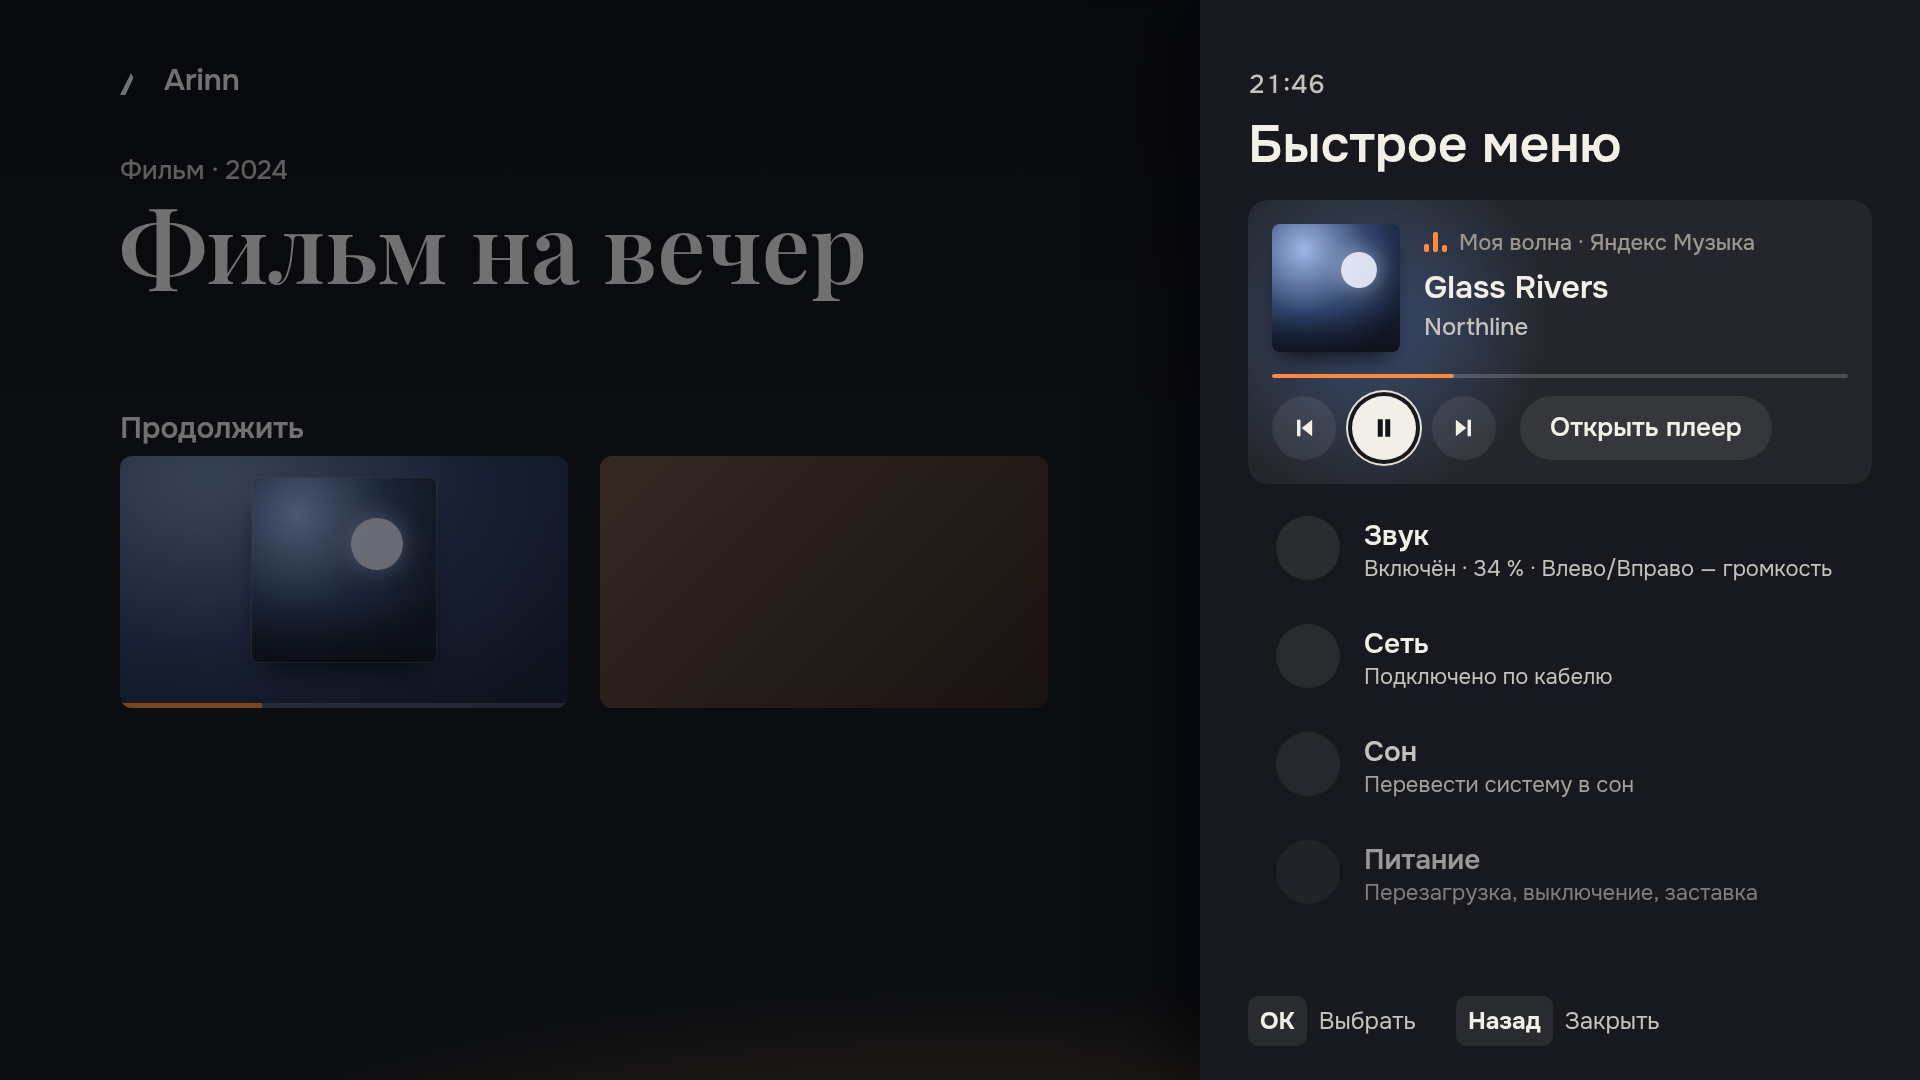
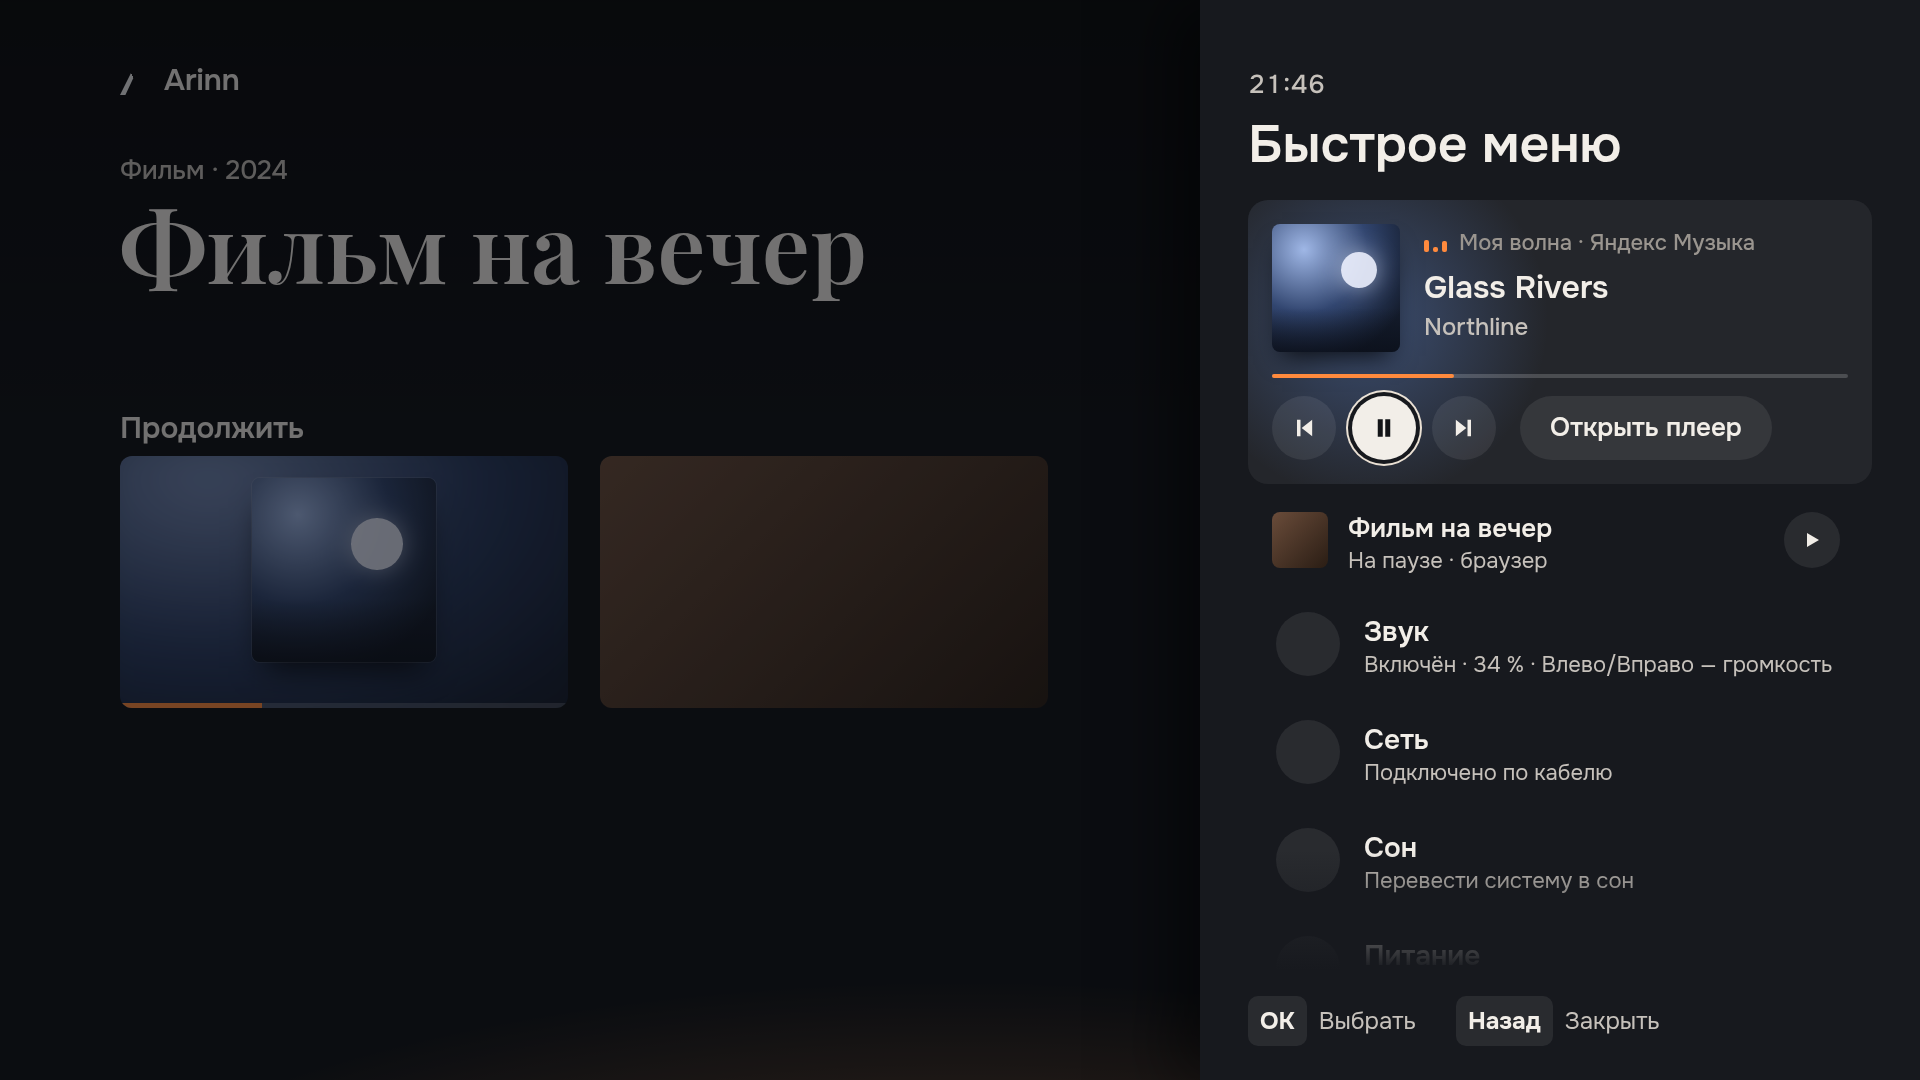
Music brief: one precedence order for two sessions, scrolling Quick menu
Address the review of #799:

- One precedence order decides which session the Quick menu card shows.
  A playing session ranks above a paused one, and the latest state
  change counts only between sessions in the same state. The card and
  the compact row change places only when that order changes, so
  pausing the session in the row while both play moves nothing.
- Capacity: with the media card and a second-session row, the rows no
  longer fit. They form one column that scrolls with focus. The title
  and the hint line stay fixed, a bottom fade shows that more follows,
  and Down reaches Open Home and Close Arinn. Row sizes are unchanged.
- The frame mh-06 is redrawn with two sessions and the scrolled column.

Refs #796. §5.7, ADR-0142 MH-7.

diff --git a/docs/design/briefs/music-hearth-light/frames.html b/docs/design/briefs/music-hearth-light/frames.html
@@ -296,26 +296,33 @@ body.only .frame { width: 1920px; border-radius: 0; margin: 0; box-shadow: none;
         <div style="left:272px;top:196px;height:64px;border-radius:32px;padding:0 30px;background:rgba(255,255,255,.08);display:flex;align-items:center;font-size:26px;font-weight:600;color:#F2EEE8;">Открыть плеер</div>
       </div>
 
-      <div style="left:48px;top:500px;width:624px;height:96px;">
+      <div style="left:48px;top:496px;width:624px;height:88px;border-radius:20px;">
+        <div style="left:24px;top:16px;width:56px;height:56px;border-radius:8px;background:linear-gradient(135deg,#6a4c3a,#2a1d14);"></div>
+        <div style="left:100px;top:12px;width:400px;font-size:26px;font-weight:600;color:#F2EEE8;white-space:nowrap;overflow:hidden;text-overflow:ellipsis;">Фильм на вечер</div>
+        <div style="left:100px;top:48px;font-size:22px;color:#C6C1BB;">На паузе · браузер</div>
+        <div style="left:536px;top:16px;width:56px;height:56px;border-radius:50%;background:rgba(255,255,255,.08);display:grid;place-items:center;"><svg class="ico" style="width:24px;height:24px" viewBox="0 0 24 24"><path fill="#F2EEE8" d="M7 5l12 7-12 7z"/></svg></div>
+      </div>
+      <div style="left:48px;top:596px;width:624px;height:96px;">
         <div style="left:28px;top:16px;width:64px;height:64px;border-radius:50%;background:rgba(255,255,255,.08);"></div>
         <div style="left:116px;top:14px;font-size:28px;font-weight:600;color:#F2EEE8;">Звук</div>
         <div style="left:116px;top:52px;font-size:22px;color:#C6C1BB;">Включён · 34 % · Влево/Вправо — громкость</div>
       </div>
-      <div style="left:48px;top:608px;width:624px;height:96px;">
+      <div style="left:48px;top:704px;width:624px;height:96px;">
         <div style="left:28px;top:16px;width:64px;height:64px;border-radius:50%;background:rgba(255,255,255,.08);"></div>
         <div style="left:116px;top:14px;font-size:28px;font-weight:600;color:#F2EEE8;">Сеть</div>
         <div style="left:116px;top:52px;font-size:22px;color:#C6C1BB;">Подключено по кабелю</div>
       </div>
-      <div style="left:48px;top:716px;width:624px;height:96px;opacity:.8">
+      <div style="left:48px;top:812px;width:624px;height:96px;">
         <div style="left:28px;top:16px;width:64px;height:64px;border-radius:50%;background:rgba(255,255,255,.08);"></div>
         <div style="left:116px;top:14px;font-size:28px;font-weight:600;color:#F2EEE8;">Сон</div>
         <div style="left:116px;top:52px;font-size:22px;color:#C6C1BB;">Перевести систему в сон</div>
       </div>
-      <div style="left:48px;top:824px;width:624px;height:96px;opacity:.6">
+      <div style="left:48px;top:920px;width:624px;height:96px;">
         <div style="left:28px;top:16px;width:64px;height:64px;border-radius:50%;background:rgba(255,255,255,.08);"></div>
         <div style="left:116px;top:14px;font-size:28px;font-weight:600;color:#F2EEE8;">Питание</div>
         <div style="left:116px;top:52px;font-size:22px;color:#C6C1BB;">Перезагрузка, выключение, заставка</div>
       </div>
+      <div style="left:0;top:850px;width:720px;height:230px;background:linear-gradient(180deg, rgba(23,25,30,0) 0px, #17191E 120px, #17191E 230px);"></div>
       <div style="left:48px;top:996px;display:flex;gap:12px;align-items:center;font-size:24px;color:#C6C1BB;">
         <span style="position:static;padding:6px 12px;border-radius:10px;background:rgba(255,255,255,.08);color:#F2EEE8;font-weight:700;">OK</span><span style="position:static">Выбрать</span>
         <span style="position:static;width:16px"></span>
@@ -323,7 +330,7 @@ body.only .frame { width: 1920px; border-radius: 0; margin: 0; box-shadow: none;
       </div>
     </div>
   </div></div>
-<p class="caption">Quick menu while music plays: the media card replaces the Now playing row; focus starts on pause.</p></section>
+<p class="caption">Quick menu with two sessions: music plays and ranks first, so it has the card; a paused browser video is the compact row under it. The rows scroll with focus: Power is half under the bottom fade, and Open Home and Close Arinn follow below. The title and the hint line stay in place.</p></section>
 <section data-id="mh-07-ambient"><h2>mh-07-ambient</h2>
 <div class="frame" data-frame id="mh-07-ambient"><div class="stage">
     <div style="inset:0;background:#07080A;"></div>

diff --git a/docs/design/briefs/music-hearth-light/README.md b/docs/design/briefs/music-hearth-light/README.md
@@ -208,10 +208,20 @@ A right-hand sheet 720 wide.
 - **Video.** The same card shows a video session: the poster in place of the cover, the episode in place of the artist.
 - **Without a session** the existing single row stays. The card is fed by the music session as well as by media sessions (M2).
 - **Two sessions at once.** A media session (a browser tab, a video player) and the music session can both exist.
-  - The card shows the one that plays. If both play or both are paused, it shows the one whose playback state changed last.
+  - **One precedence order** decides which session the card shows:
+    1. a playing session ranks above a paused one;
+    2. between two sessions in the same state, the one whose playback state changed last ranks higher.
+  - The time of a change never overrides the state.
+  - Example: both sessions play and the user pauses the one in the row. The card keeps its session, because playing still ranks above paused, and nothing moves.
   - Its transport and *Open player* act only on the session it shows.
-  - The other session is a compact container row under the card, 624 × 88: its artwork 56, title, state and its own play/pause. OK on the row toggles that session. When that session becomes the one that changed last, the two swap places.
+  - The other session is a compact container row under the card, 624 × 88: its artwork 56, title, state and its own play/pause. OK on the row toggles that session. The card and the row change places only when the precedence order changes, for example when the session in the row starts playing while the card's session is paused.
   - No product or provider is preferred.
+- **Fitting the sheet.** With the media card, and possibly the second-session row, the sheet's rows no longer fit the screen. The fixed parts are the header (clock and title, y 64–180) and the hint line (y 996).
+  - In between, the rows from y 200 to y 960 form one column that **scrolls with focus**. It follows the handoff's one-item-from-the-edge rule: the focused row never sits at the edge, and the next row stays partly visible.
+  - A 96 px fade over the bottom edge of the column shows that more rows follow, and a 48 px fade appears under the title once the column has scrolled.
+  - There is no scroll bar and no other key: Down from *Power* reaches *Open Home* and *Close Arinn*, which the spec requires.
+  - Opening the sheet always starts at the top, with focus on play/pause.
+  - The row sizes stay as they are: compressing them would drop below the 96 px TV row and the 26 px action text.
 
 **Ambient (`mh-07`; MH-8).** It follows the Ambient section of the Hearth light brief:
 - black, the clock in Playfair Display 220 at the lower left, the date in Onest 30, the block drifting against burn-in.

diff --git a/docs/adr/0142-music-in-hearth-light.md b/docs/adr/0142-music-in-hearth-light.md
@@ -33,7 +33,7 @@ The [music Hearth light brief](../design/briefs/music-hearth-light/README.md) an
 | MH-4 | While music plays, the status area shows an Ember dot and "track · artist". |
 | MH-5 | Browsing never selects a source; there is no source switch. A *Sources* pill opens a sheet with each source's state and its *Connect*, *Refresh* and *Disconnect* actions. Settings has no Music category and holds no actions (§5.6, [ADR-0065](0065-provider-settings-contract.md)). |
 | MH-6 | Stations can be pinned to the Favourites shelf on Home. |
-| MH-7 | While media plays or is paused, the Quick menu's *Now playing* row is a media card with previous, play/pause, next and *Open player*. It is fed by the music session as well as by media sessions. When both exist, the card shows the one that plays, otherwise the one whose state changed last. Its controls act only on the session it shows. The other session is a compact row under it with its own play/pause. No product is preferred. |
+| MH-7 | While media plays or is paused, the Quick menu's *Now playing* row is a media card with previous, play/pause, next and *Open player*. It is fed by the music session as well as by media sessions. When both exist, one precedence order applies: playing ranks above paused, and the latest state change ranks higher only between sessions in the same state. The card shows the higher-ranked session, and its controls act only on that session. The other session is a compact row under it with its own play/pause, and the two change places only when the order changes. No product is preferred. The sheet's rows scroll with focus when they do not fit. |
 | MH-9 | On shared shelves, personal selections come first, from every streaming source that offers them (what a provider returns in its `selections` facet, such as My Wave). Ordinary entries follow by date, newest first. The date needs an optional `Entity` field: a separate `contract-change` task. Until then, each provider's own order is kept and providers alternate. |
 | MH-10 | *Find* searches every connected source at once. Full lists filter by source ("All · This computer · <service>") without making it a mode. Identical items from two sources are not merged in this version, and a queue never mixes sources. |
 | MH-8 | Automatic Ambient may start while music plays, and Ambient shows the current track. It still must not start while video or other media plays, or while an external Activity is in the foreground. |

diff --git a/docs/specifications/arinn-specification.md b/docs/specifications/arinn-specification.md
@@ -292,7 +292,7 @@ current Activity, without the fullscreen Home. Its keys are `quick_menu_shortcut
 in `config.toml` and the remote's Menu key, owned by the platform layer like the
 Home keys ([§6.2](#62-keys)). The sheet holds, in this order:
 
-- **Now playing:** the current media session (`Media1`) or native music session (§5.3.1) with play/pause. While one plays or is paused, the row is a media card with the artwork, the title, progress, previous, play/pause, next and *Open player*, focus on play/pause. When both a media session and the music session exist, the card shows the one that plays; if both play or both are paused, the one whose playback state changed last. The card's transport and *Open player* always act on the session it shows. The other session appears as one compact row under the card, with its title, state and its own play/pause. No product or provider is preferred (owner decision on 2026-11-06, [ADR-0142](../adr/0142-music-in-hearth-light.md));
+- **Now playing:** the current media session (`Media1`) or native music session (§5.3.1) with play/pause. While one plays or is paused, the row is a media card with the artwork, the title, progress, previous, play/pause, next and *Open player*, focus on play/pause. When both a media session and the music session exist, one precedence order decides which session the card shows. A playing session ranks above a paused one. Between two sessions in the same state, the one whose playback state changed last ranks higher. The card always shows the higher-ranked session; the time of a change matters only between sessions in the same state. The card's transport and *Open player* always act on the session it shows. The other session appears as one compact row under the card, with its title, state and its own play/pause. The card and the row change places only when the order changes. No product or provider is preferred. When the rows do not fit the sheet, the rows scroll with focus while the title and the hint line stay in place (owner decision on 2026-11-06, [ADR-0142](../adr/0142-music-in-hearth-light.md));
 - **volume and mute** of the default audio output, executed by the platform layer;
 - **network status** (`SystemStatus1`);
 - **Sleep** and the **power menu**, as described under *Power* below;
